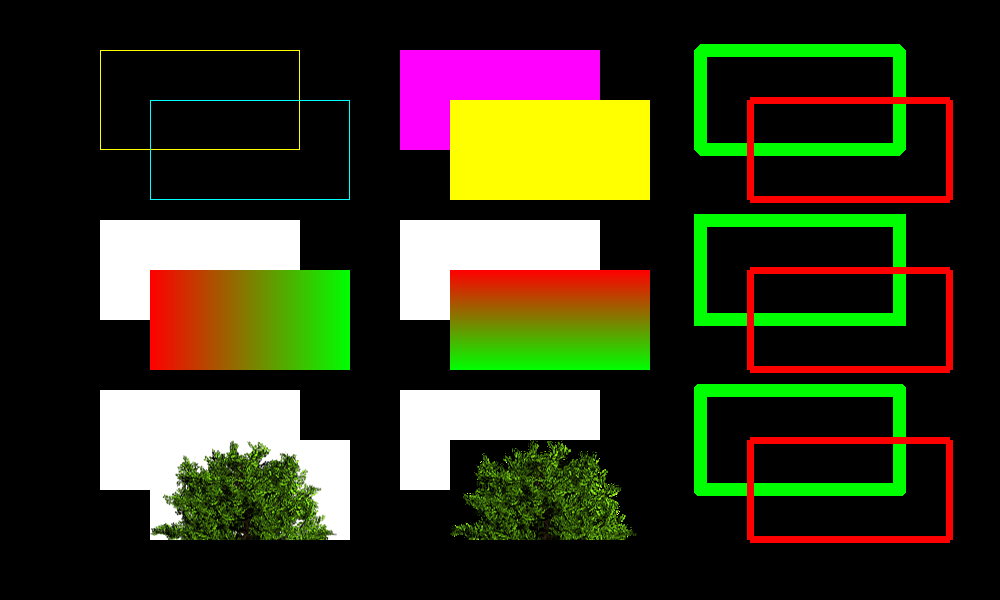
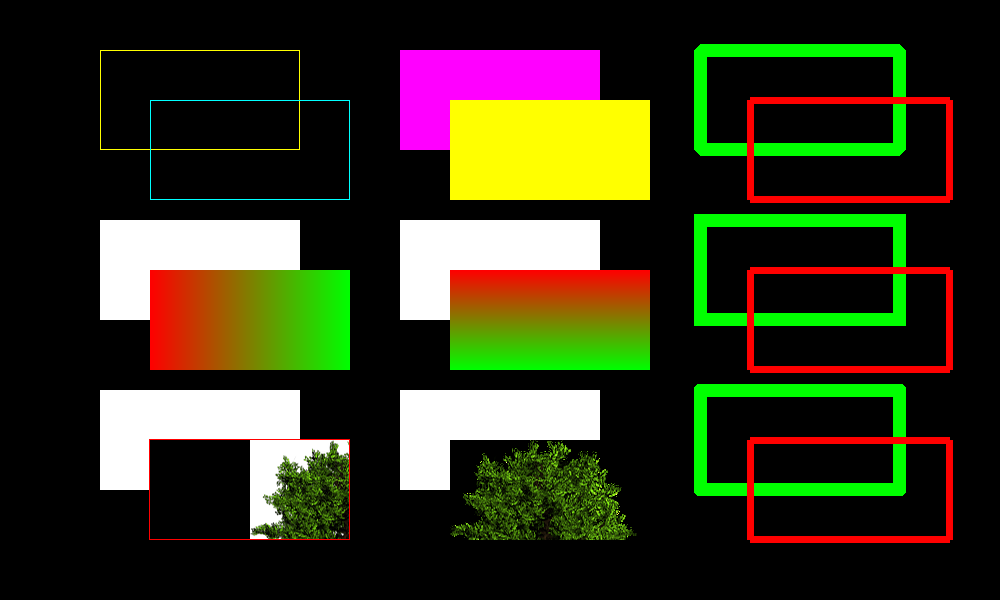
Working on texture offset in Gfx::Brush

Changed region(s): [[0.124, 0.72, 0.372, 0.9]]

diff --git a/src/Pt-Gfx/Brush.cpp b/src/Pt-Gfx/Brush.cpp
@@ -28,7 +28,7 @@
 
 #include <stdexcept>
 
-#include <Pt/Gfx/Brush.h>
+#include <Pt/Gfx/ImagePainter.h>
 
 
 namespace Pt {
@@ -323,10 +323,57 @@ const Color& BrushData::gradientColor() const
 
 void BrushData::setTexture(const Image& texture, Pt::int32_t offsetX, Pt::int32_t offsetY)
 {
-    // TODO: offsetX, offsetY
+    if(offsetX || offsetY) {
+        // Prepare the destination texture
+        _texture.reset(texture.format(), texture.size());
+        // Prepare the image painter
+        ImagePainter ip(_texture);
+        ip.setCompositionMode(CompositionMode::SourceCopy);
+        // Calculate the source and destination coordinate
+        Pt::int32_t sx, dx;
+        if(offsetX >= 0) {
+            sx = offsetX % texture.width();
+            dx = 0;
+        }
+        else {
+            sx = 0;
+            dx = (-offsetX) % texture.width();
+        }
+        Pt::int32_t sy, dy;
+        if(offsetY >= 0) {
+            sy = offsetY % texture.height();
+            dy = 0;
+        }
+        else {
+            sy = 0;
+            dy = (-offsetY) % texture.height();
+        }
+        // Draw on the top and/or left hole area
+        if(!dx       ) ip.drawImage(
+                           PointF(texture.width() - sx, 0), texture,
+                           RectF(PointF(0, sy), SizeF(sx, sy ? (texture.height() - sy) : texture.height()))
+                       );
+        if(       !dy) ip.drawImage(
+                           PointF(0, texture.height() - sy), texture,
+                           RectF(PointF(sx, 0), SizeF(sx ? (texture.width() - sx) : texture.width(), sy))
+                       );
+        if(!dx && !dy) ip.drawImage(
+                           PointF(texture.width() - sx, texture.height() - sy), texture,
+                           RectF(PointF(0, 0), SizeF(texture.width() - sx, texture.height() - sy))
+                       );
+        // Draw on the middle area
+        ip.drawImage(
+            PointF(dx, dy), texture,
+            RectF(PointF(sx, sy), SizeF(texture.width() - sx, texture.height() - sy))
+        );
+        // Draw on the bottom and/or right hole area
+
+    }
+    else {
+        _texture = texture;
+    }
 
     _fillStyle = Brush::Texture;
-    _texture   = texture;
     _ofsX      = offsetX;
     _ofsY      = offsetY;
     _isNull    = false;

diff --git a/src/Pt-Gfx/tests/ImagePainterTest2_Draw_Outline.cpp b/src/Pt-Gfx/tests/ImagePainterTest2_Draw_Outline.cpp
@@ -236,7 +236,21 @@ static void testDrawRect(const char* title, Image& image, Painter& painter)
     painter.fillRect( RectF(PointF(400, 390), SizeF(200, 100)) );
 
     painter.setBrush( Brush(textureWithWhiteBackground) );
+
+    //painter.setBrush( Brush(textureWithWhiteBackground, 0, 0) );
+    //painter.setBrush( Brush(textureWithWhiteBackground, 100, 0) );
+    //painter.setBrush( Brush(textureWithWhiteBackground, 0, 150) );
+    //painter.setBrush( Brush(textureWithWhiteBackground, 100, 150) );
+
+    painter.setBrush( Brush(textureWithWhiteBackground, -100, 0) );
+    //painter.setBrush( Brush(textureWithWhiteBackground, 0, -150) );
+    //painter.setBrush( Brush(textureWithWhiteBackground, -100, -150) );
+
     painter.fillRect( RectF(PointF(150, 440), SizeF(200, 100)) );
+
+    painter.setPen  ( Color::fromRgb8(255, 0,   0, 255) );
+    painter.drawRect( RectF(PointF(150-1, 440-1), SizeF(200+1, 100+1)) );
+
 
     painter.setBrush( Brush(textureWithTransBackground) );
     painter.fillRect( RectF(PointF(450, 440), SizeF(200, 100)) );

diff --git a/src/Pt-Gfx/tests/ImagePainterTest2.cpp b/src/Pt-Gfx/tests/ImagePainterTest2.cpp
@@ -92,7 +92,7 @@ using namespace Pt::Gfx;
 #define TEST_DRAW_SOLID_THICK_LINE              0 // (including bezier)
 #define TEST_DRAW_PATTERNED_THICK_LINE          0 // (including bezier)
 
-#define TEST_DRAW_OMPF_RECTANGLES               0 // (including thick and filled)
+#define TEST_DRAW_OMPF_RECTANGLES               1 // (including thick and filled)
 #define TEST_DRAW_ROUND_OMPF_RECTANGLES         0 // (including thick and filled)
 
 #define TEST_DRAW_ELLIPSES_ARCS                 0
@@ -111,7 +111,7 @@ using namespace Pt::Gfx;
 #define TEST_DRAW_PATH_CLIPPING                 0
 #define TEST_DRAW_EXTRA                         0
 
-#define TEST_SCENE_GRAPH                        1
+#define TEST_SCENE_GRAPH                        0
 #define TEST_SVG_READER                         0
 
 #define TEST_COMPARE_WITH_OLD_PAINTER           0 // (for some shapes only)
